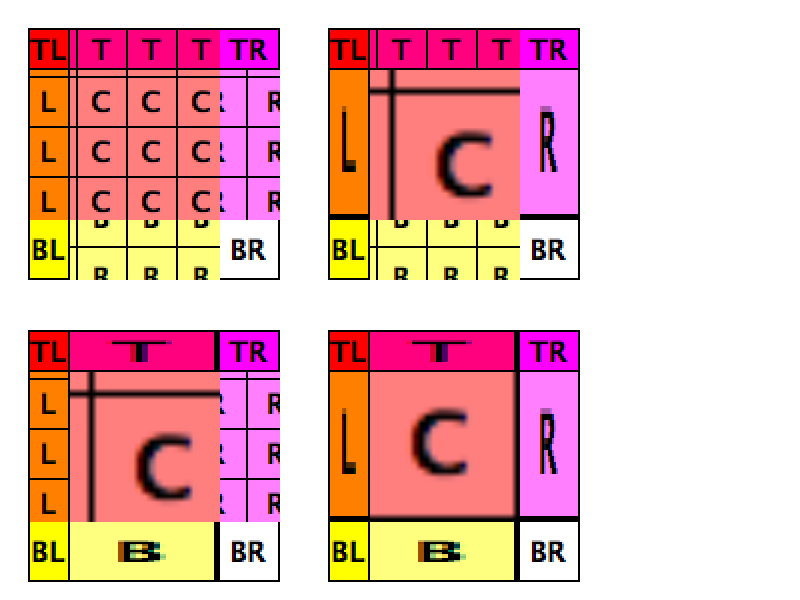
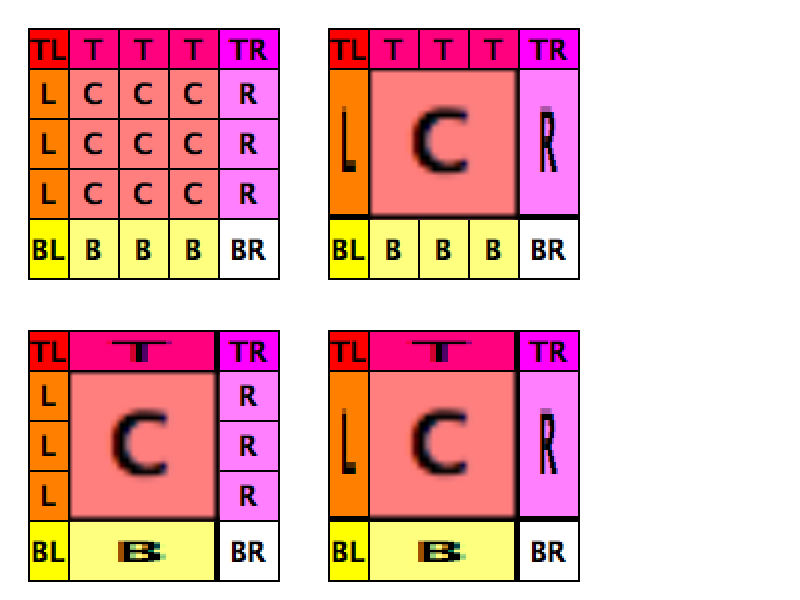
Fix incorrect pattern offsets, and rebaseline associated test results.
This now performs a similar origin translation as ImageCG.cpp, which seems to work, though it also seems to imply a relationship between the src and dest rects which I haven't found explicitly documented or enforced anywhere.

Review URL: http://codereview.chromium.org/13375

git-svn-id: http://src.chromium.org/svn/trunk/src@7107 4ff67af0-8c30-449e-8e8b-ad334ec8d88c

Changed region(s): [[0.0312, 0.06, 0.375, 0.48], [0.4375, 0.06, 0.6562, 0.48], [0.0312, 0.6, 0.375, 0.87]]

diff --git a/webkit/port/platform/graphics/skia/ImageSkia.cpp b/webkit/port/platform/graphics/skia/ImageSkia.cpp
@@ -33,6 +33,7 @@
 #include "BitmapImage.h"
 #include "BitmapImageSingleFrameSkia.h"
 #include "ChromiumBridge.h"
+#include "FloatConversion.h"
 #include "FloatRect.h"
 #include "GraphicsContext.h"
 #include "Logging.h"
@@ -371,8 +372,12 @@ void Image::drawPattern(GraphicsContext* context,
     // origin of the destination rect, which is what WebKit expects. Skia uses
     // the coordinate system origin as the base for the patter. If WebKit wants
     // a shifted image, it will shift it from there using the patternTransform.
-    matrix.postTranslate(SkFloatToScalar(phase.x()),
-                         SkFloatToScalar(phase.y()));
+    float adjustedX = phase.x() + floatSrcRect.x() *
+                      narrowPrecisionToFloat(patternTransform.a());
+    float adjustedY = phase.y() + floatSrcRect.y() *
+                      narrowPrecisionToFloat(patternTransform.d());
+    matrix.postTranslate(SkFloatToScalar(adjustedX),
+                         SkFloatToScalar(adjustedY));
     shader->setLocalMatrix(matrix);
 
     SkPaint paint;
